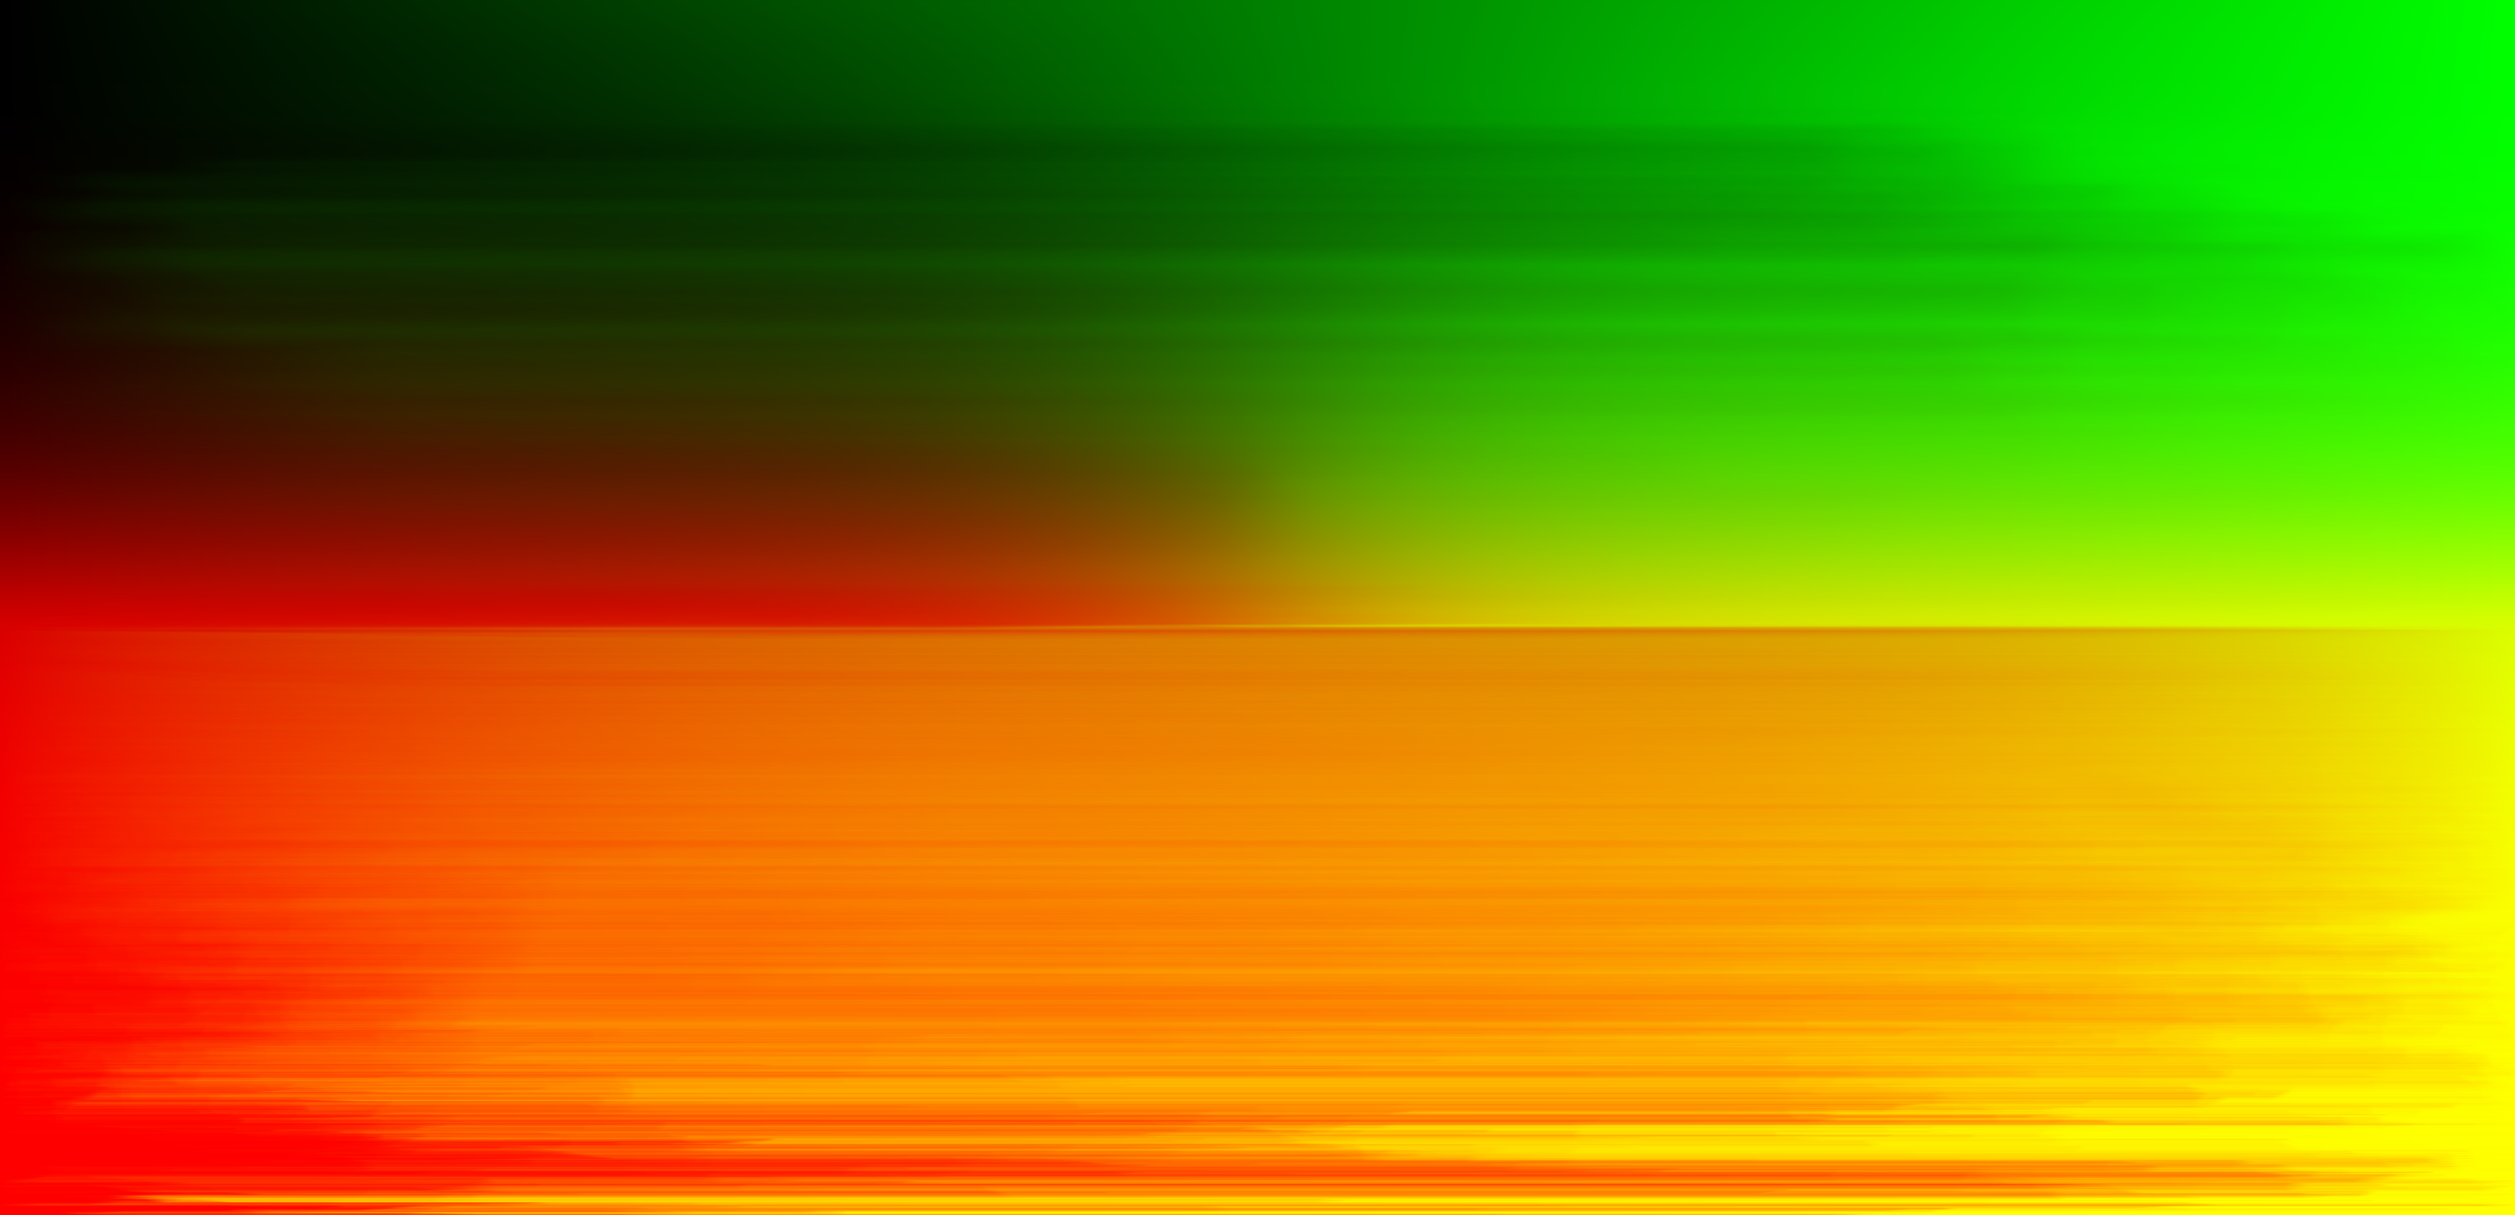
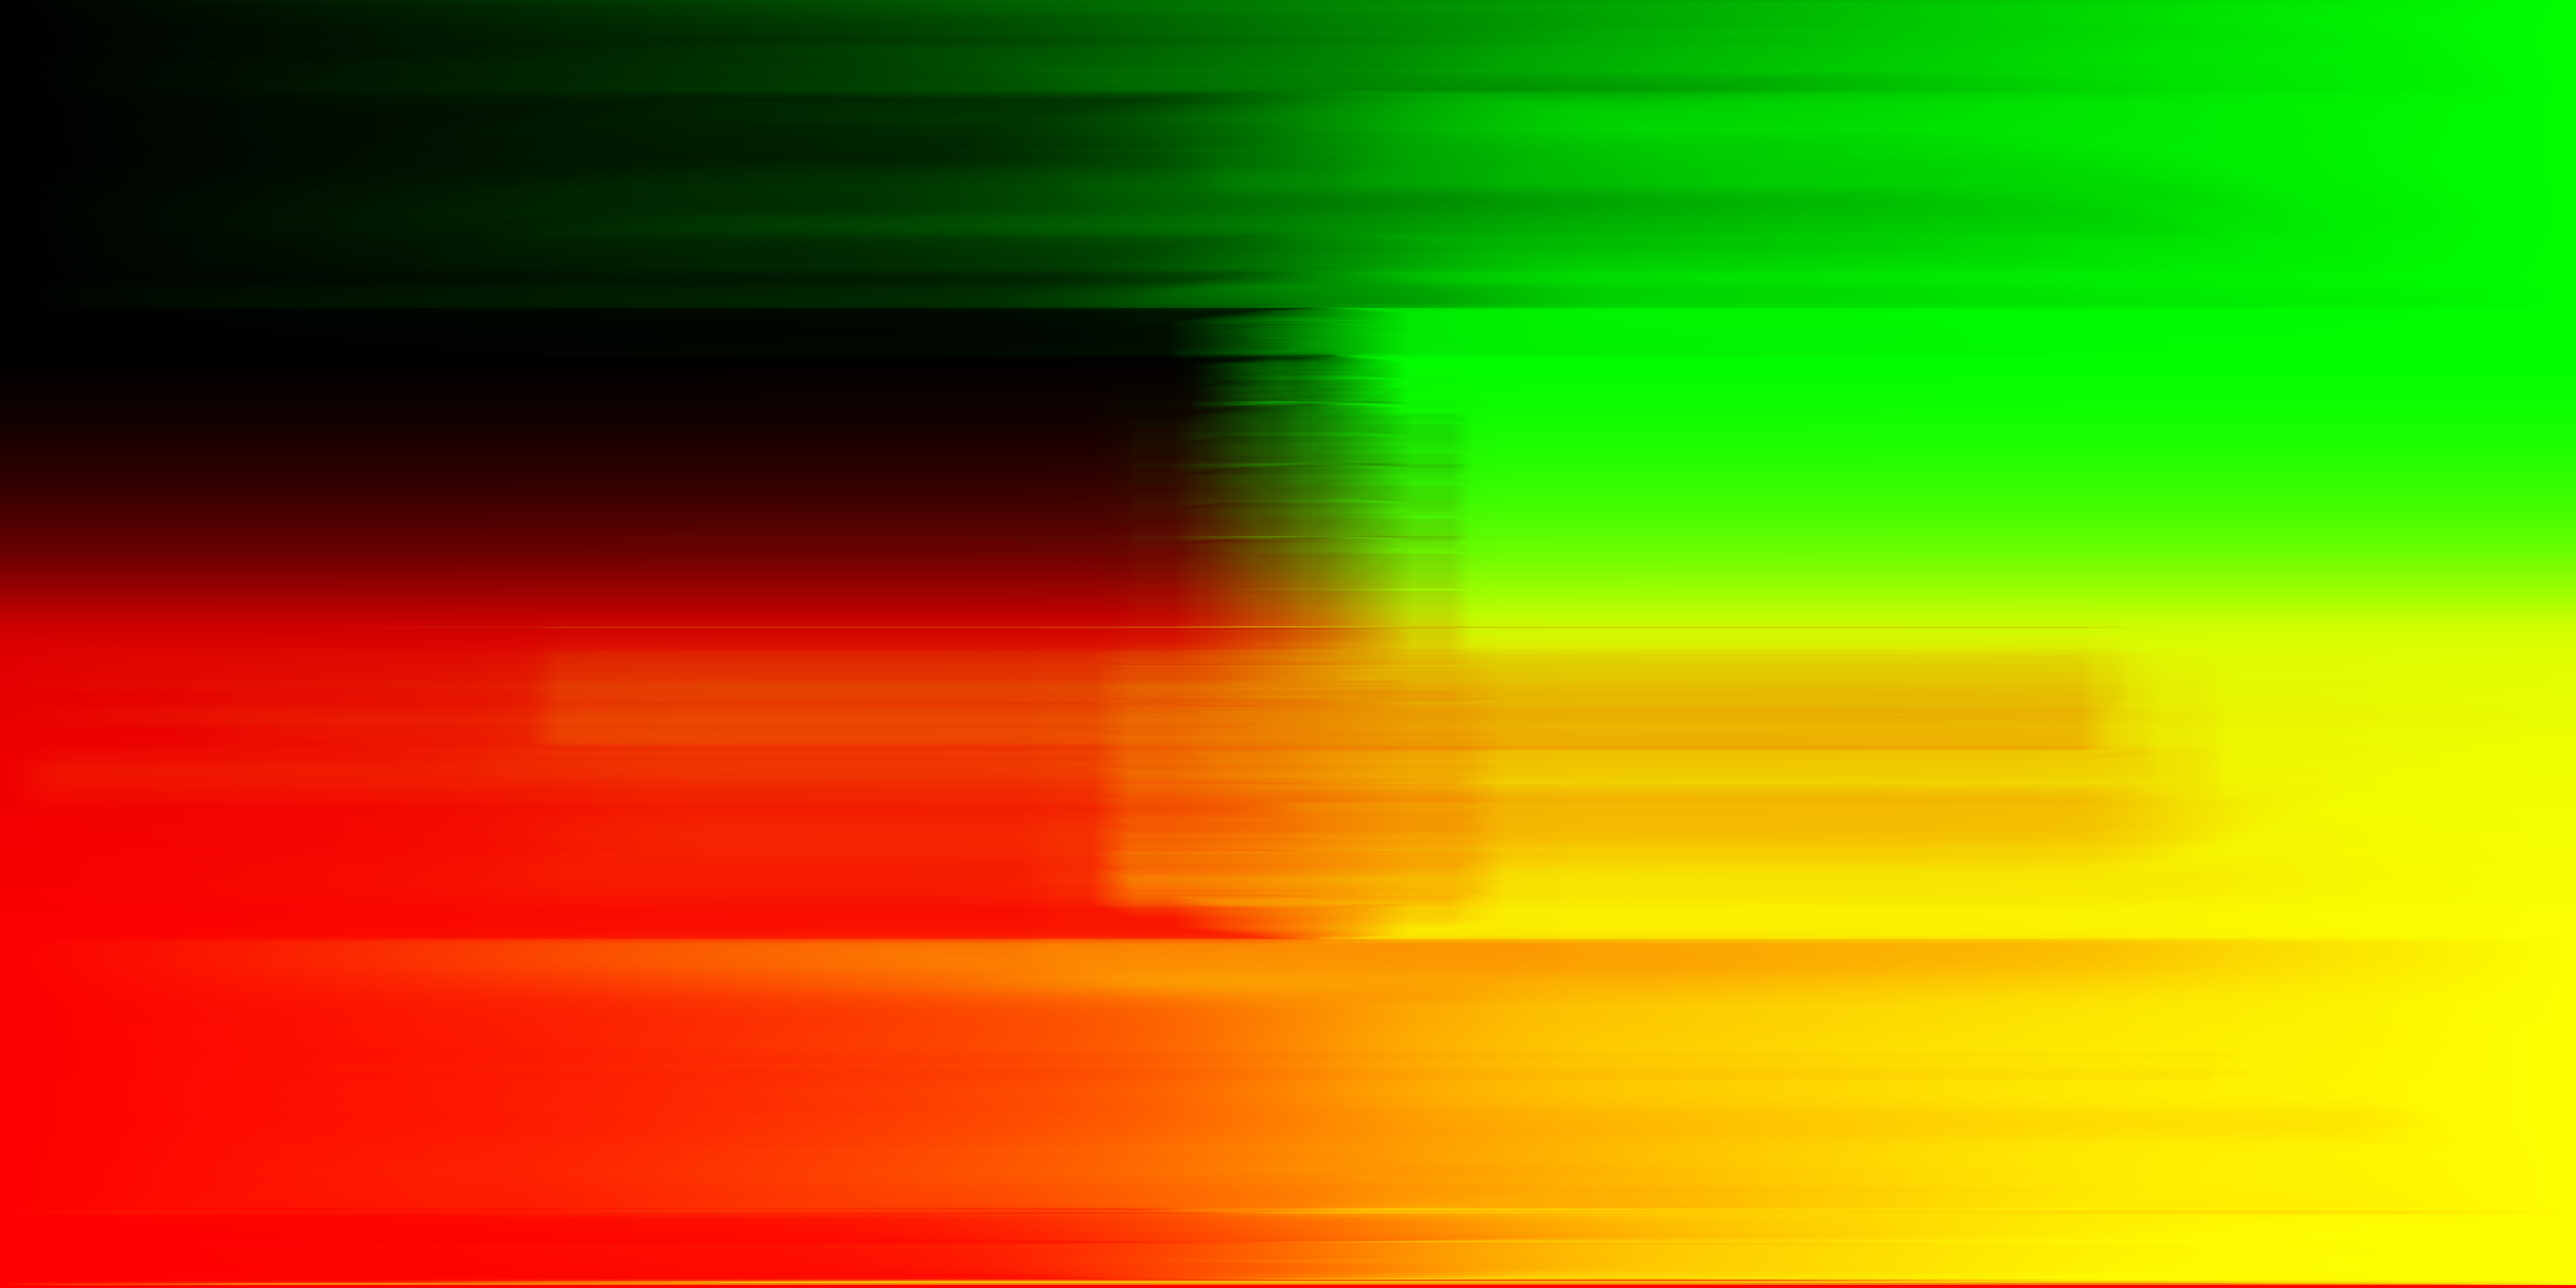
Update part 3 writeup.

diff --git a/docs/index.html b/docs/index.html
@@ -69,7 +69,7 @@
                 <tr>
                     <td align="middle">
                         <img src="images/part3-1.png" width="480px" />
-                        <figcaption align="middle">Importance Density of field.exr</figcaption>
+                        <figcaption align="middle">Importance Density of ennis.exr</figcaption>
                 </tr>
             </table>
         </div>
@@ -95,15 +95,15 @@
                 <tr>
                     <td align="middle">
                         <img src="images/part3-4.png" width="480px" />
-                        <figcaption align="middle">Dragon using uniform sphere sampling</figcaption>
+                        <figcaption align="middle">Wall-e using uniform sphere sampling</figcaption>
                     <td align="middle">
                         <img src="images/part3-5.png" width="480px" />
-                        <figcaption align="middle">Dragon using importance sampling</figcaption>
+                        <figcaption align="middle">Wall-e using importance sampling</figcaption>
                 </tr>
             </table>
         </div>
         <p>
-            When rendering our dragon the noise level are nearly the same in both pictures. This is probabily because
+            When rendering our Wall-e the noise level between these two methods are closer than that of the bunny's. This is probabily because
             there is more polygons in the dragon mesh so that the ray samples are more likely to hit the model and thus
             gives back a valid radiance from the environment light source.
         </p>
